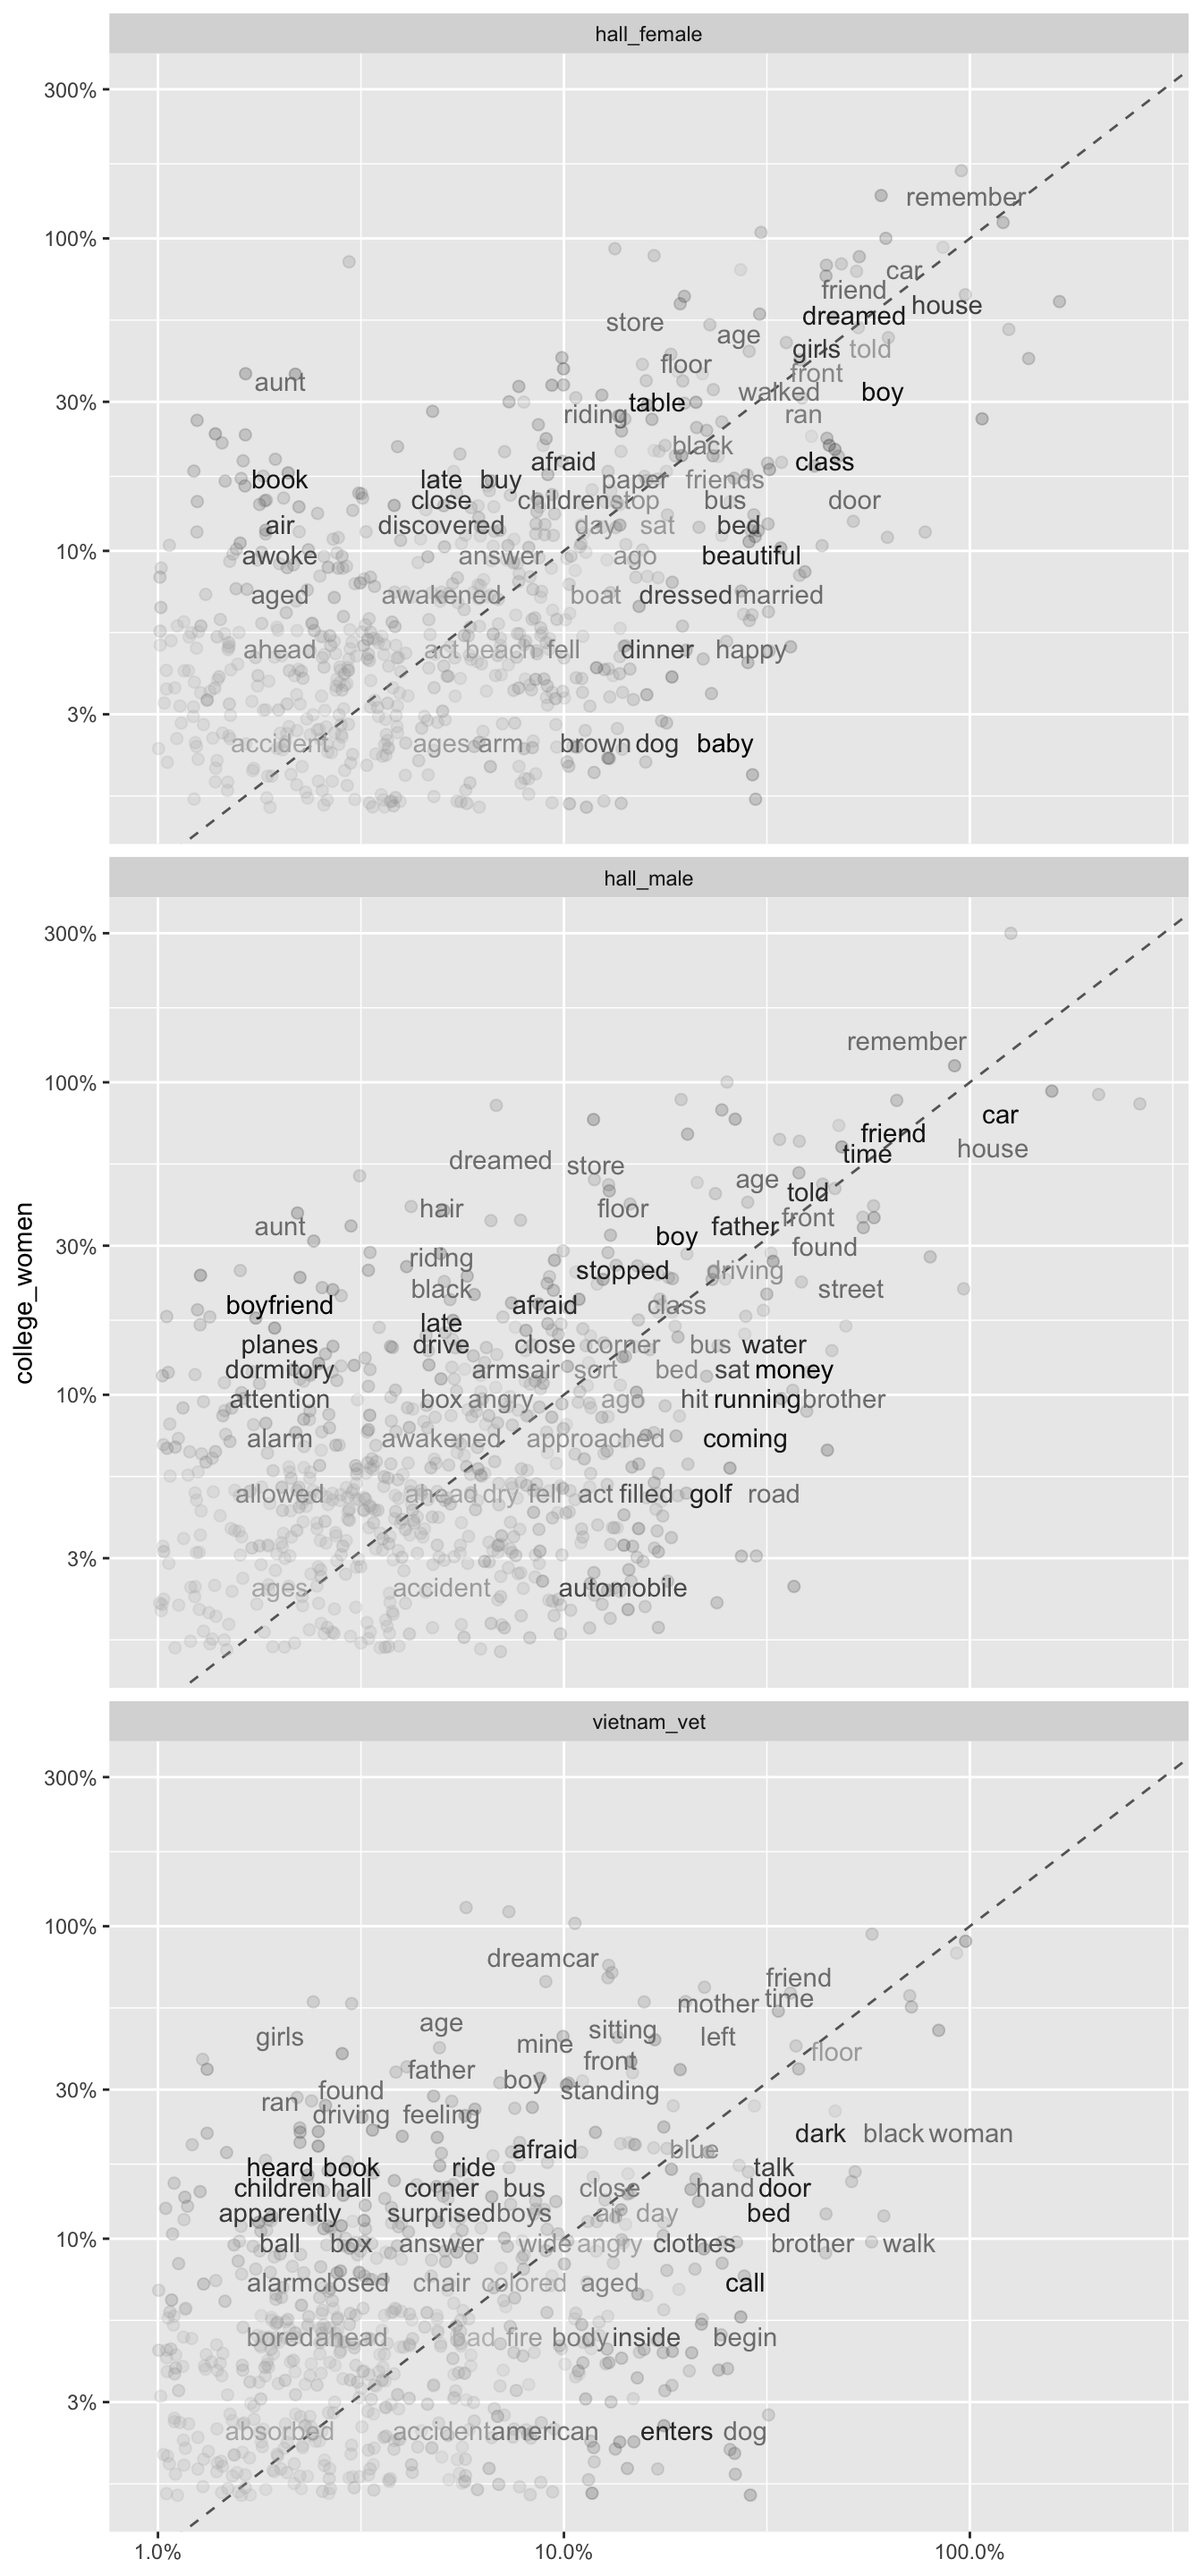
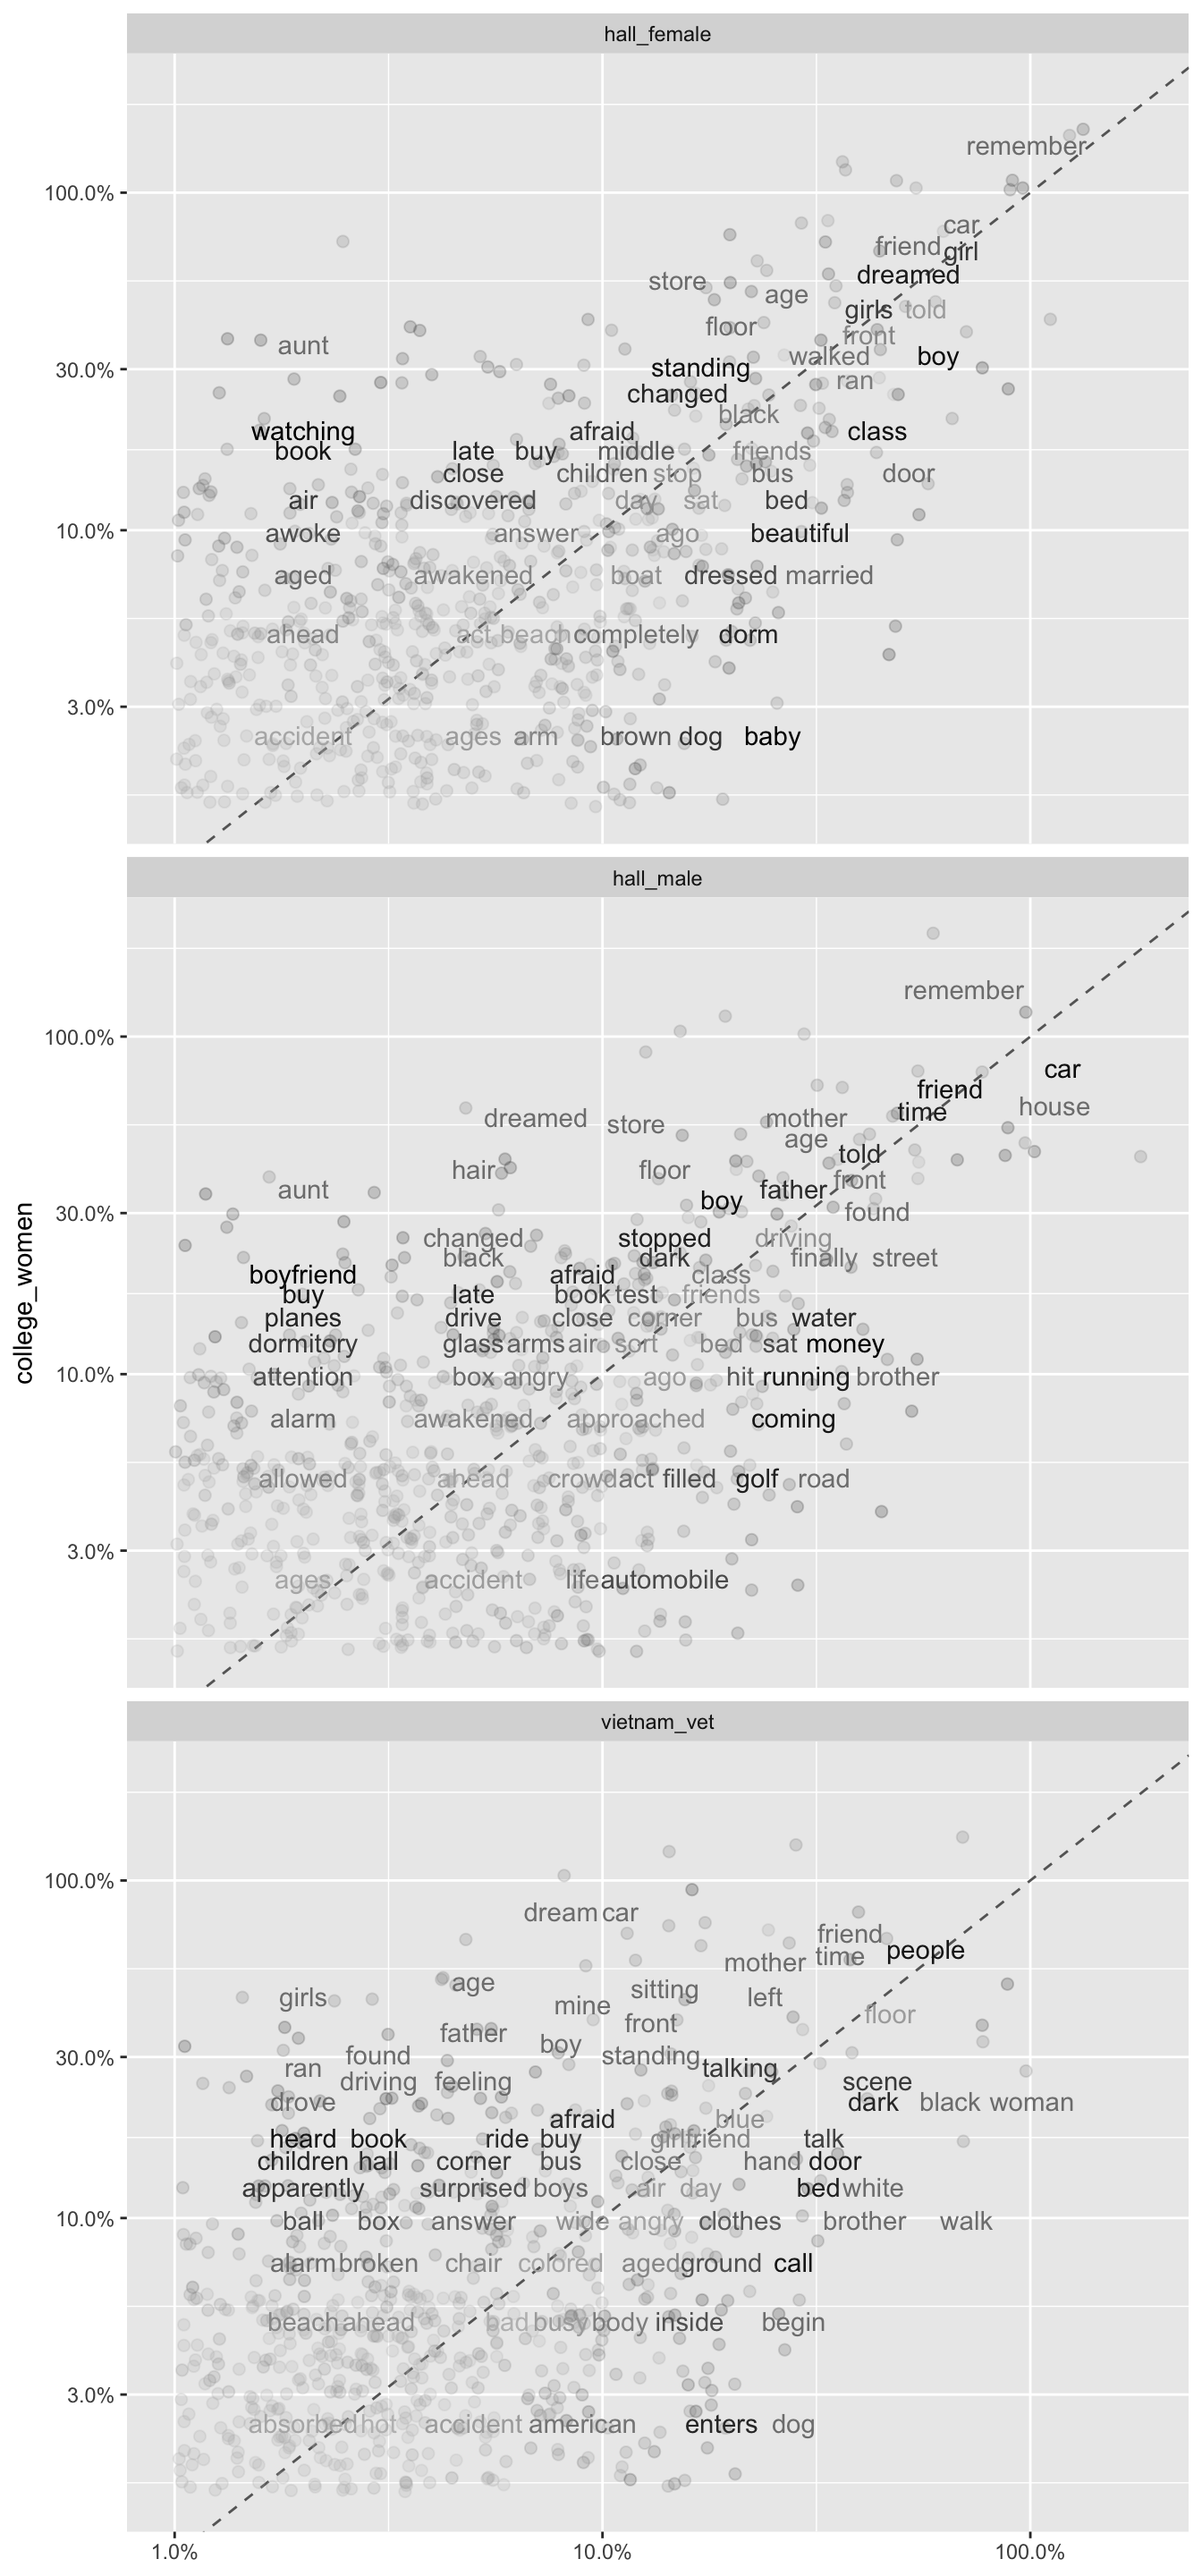
preserve taxonomy names = true

Changed region(s): [[0.0312, 0.0, 0.9062, 1.0], [0.5, 0.0, 0.5938, 0.0312], [0.8438, 0.9688, 0.875, 1.0]]

diff --git a/public/post/manipulating-text-data-from-dreams/index.html b/public/post/manipulating-text-data-from-dreams/index.html
@@ -548,16 +548,16 @@ df$sample &lt;- as.factor(df$sample)</code></pre>
 car::some(df) %&gt;%
   custom_view()</code></pre>
 <pre><code>##           sample                                                    dream
-## 1  college_women I dreamed I was walking in the country, over gently roll
-## 2  college_women I was trying to buy some records in a record shop, and I
-## 3  college_women In my dream I was riding in a large car. The driver was 
-## 4    vietnam_vet I have a room in a college dorm. A long-haired man, hand
-## 5    vietnam_vet I&#39;m sitting in a booth at a well lit uncrowded diner. Tw
-## 6    vietnam_vet At a summer day camp, I share a bunk with my brother&#39;s c
-## 7      hall_male I was sitting at my desk waiting for class to begin when
-## 8      hall_male In this dream my wife and I were driving along a country
-## 9    hall_female I dreamed that Norma (18), a girl who resides in the sam
-## 10   hall_female I was in a downtown shopping district with two other gir</code></pre>
+## 1  college_women I dreamed about my first boyfriend whom I had gone with 
+## 2  college_women I was taking an examination in writing letters which wer
+## 3  college_women I dreamed I was walking in the country, over gently roll
+## 4    vietnam_vet A young black woman and I discuss how to organize a gras
+## 5    vietnam_vet My former girlfriend Karen wants to be a hypno-therapist
+## 6      hall_male I was with a girl who may have been my wife. We were wan
+## 7      hall_male I was seated in the living room of a girl (19) who has s
+## 8      hall_male I was in a gym, running around and jumping. Suddenly I r
+## 9      hall_male This dream has been recurrent at the rate of twice a wee
+## 10   hall_female In this dream as in many I was at my home in West Va. I</code></pre>
 <p><img src="../../img/tidytext.png" width="25%" /></p>
 <p>Julia Silge and David Robinson’s book <strong>Text Mining with R - A tidy approach</strong> sets off at a cracking pace, at least for relatively newbies to R such as myself. They assumes a degree of familiarity with tidyverse concepts and when they introduce concepts such as tidytext format, they can sometimes address three or four steps in one example. I will unpack some of these as individual steps to illustrate what is going on, while using our dream data as the material for processing.</p>
 <p>At the moment our df only contains the sample name (a categorical variable with four values) and the text of the dream. It might be helpful to index the dreams before we tokenise the text in them. So let’s introduce a new variable that we will call dream_number. This will index each dream between 1 - 400 in the dataframe.</p>

diff --git a/public/post/using-tidytext-to-compare-samples-of-dreams/index.html b/public/post/using-tidytext-to-compare-samples-of-dreams/index.html
@@ -555,18 +555,18 @@ library(car)</code></pre>
   filter(!is.na(college_women) &amp; !is.na(hall_female) &amp; !is.na(hall_male) &amp; !is.na(vietnam_vet)) %&gt;%
   some()</code></pre>
 <pre><code>## # A tibble: 10 x 5
-##    word     college_women hall_female hall_male vietnam_vet
-##    &lt;chr&gt;            &lt;dbl&gt;       &lt;dbl&gt;     &lt;dbl&gt;       &lt;dbl&gt;
-##  1 afraid            0.24        0.1       0.09        0.09
-##  2 bed               0.15        0.27      0.19        0.32
-##  3 car               0.98        0.69      1.19        0.11
-##  4 catch             0.03        0.07      0.07        0.03
-##  5 clothes           0.12        0.17      0.09        0.21
-##  6 hundreds          0.06        0.05      0.02        0.06
-##  7 left              0.55        0.47      0.33        0.24
-##  8 running           0.12        0.02      0.3         0.06
-##  9 speak             0.03        0.02      0.02        0.09
-## 10 tables            0.03        0.05      0.02        0.03</code></pre>
+##    word    college_women hall_female hall_male vietnam_vet
+##    &lt;chr&gt;           &lt;dbl&gt;       &lt;dbl&gt;     &lt;dbl&gt;       &lt;dbl&gt;
+##  1 bad             0.06        0.02       0.02        0.06
+##  2 father          0.43        0.570      0.28        0.05
+##  3 glass           0.15        0.02       0.05        0.13
+##  4 grass           0.06        0.07       0.02        0.03
+##  5 hit             0.12        0.07       0.21        0.03
+##  6 leaving         0.06        0.02       0.16        0.05
+##  7 mine            0.52        0.37       0.47        0.09
+##  8 road            0.06        0.1        0.33        0.16
+##  9 sitting         0.580       0.47       0.35        0.14
+## 10 staying         0.06        0.1        0.02        0.05</code></pre>
 <p>Then the next step is to decide which sample is going to be our reference sample. This will have its column of frequencies replicated and stacked so that each of the other samples can be compared with it. When we <em>gather()</em>, we only include the samples to compare with the reference and not the reference itself. For simplicity, we can use the first column in our df (college_women) as our reference group and compare the other three samples to this. We might predict at this point that the hall_women will have the most similar dreams and then the hall_men, with the vietnam_vet being the most different. We can check this prediction later on when we run some correlation coefficients.</p>
 <pre class="r"><code>df_gather &lt;- df_spread %&gt;%
   gather(sample, proportion, hall_female:vietnam_vet)</code></pre>
